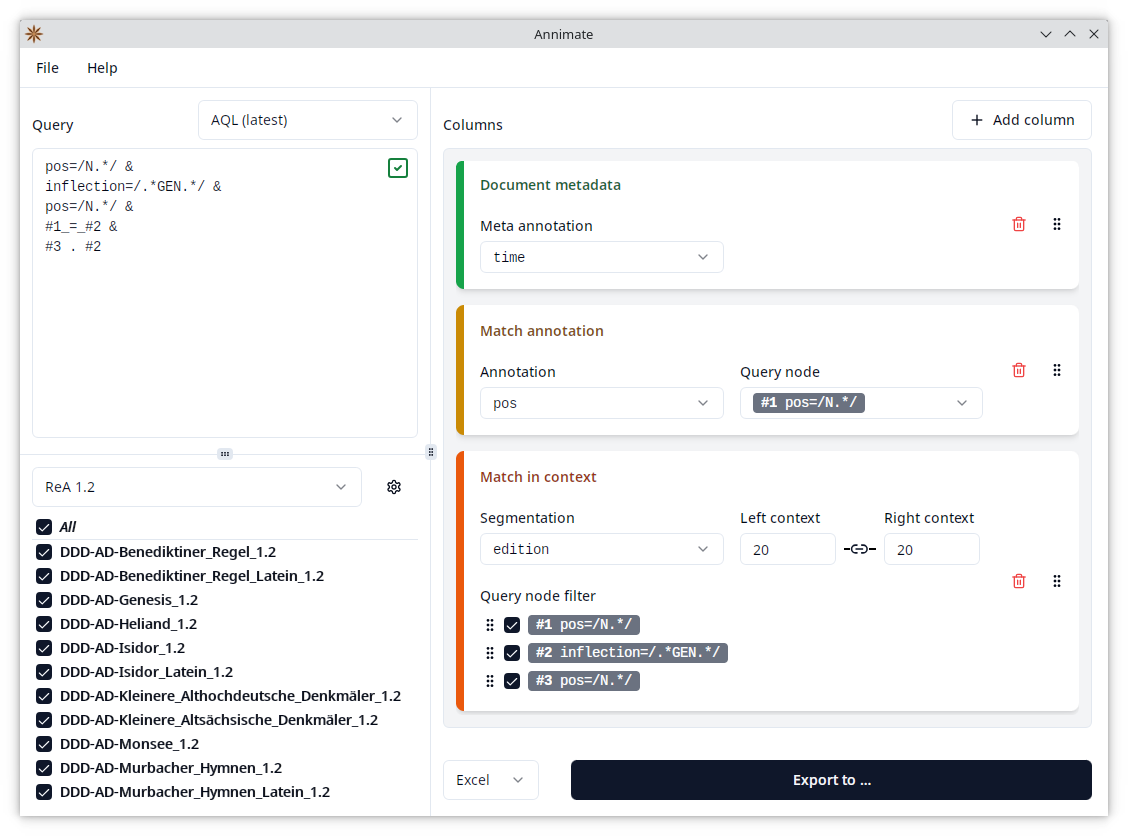
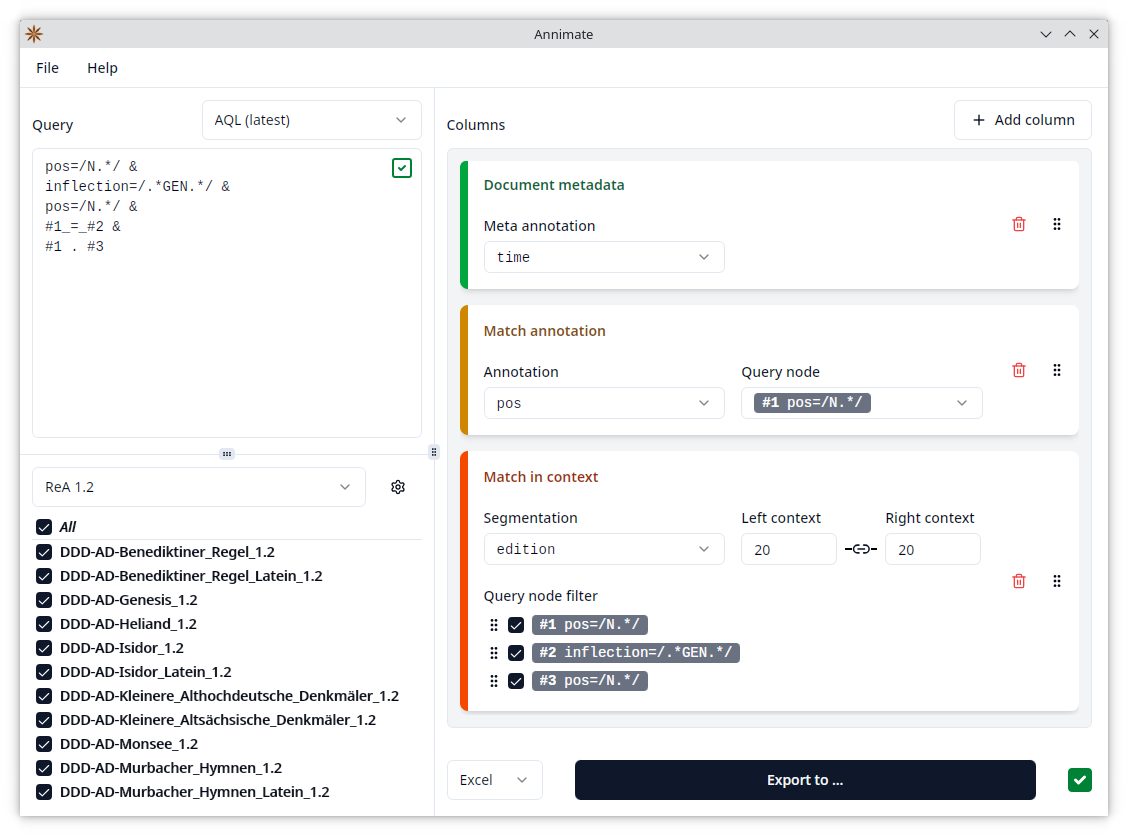
Update User Guide

diff --git a/docs/user-guide/src/export.md b/docs/user-guide/src/export.md
@@ -14,7 +14,7 @@ The next step is to enter a query in the _ANNIS Query Language (AQL)_ on the upp
 
 > **Note:** If there is an ANNIS installation available for your corpora, you may want to draft your query there, using ANNIS to visualize the results, and then copy-paste it into Annimate for the export. You can, of course, also type your query directly into Annimate.
 
-If the query is valid (in the context of the selected corpora), you see a green checkmark in the corner of the query area:
+If the query is valid, you see a green checkmark in the corner of the query area:
 ![Screenshot showing valid query](img/export-query-valid.png)
 
 If the query is invalid, you see a red "x" icon. Hover over the icon with your mouse to see the error message. You can also click on the icon to make Annimate select the part of the query that the error message refers to:
@@ -65,7 +65,11 @@ On the lower right of the Annimate main screen, you can choose between one of tw
 
 ![Screenshot showing export format selector](img/export-format.png)
 
-Finally, click on the "Export to ..." button and select a filename in order to start the export. If this button is disabled (grayed out), this means that the information needed to start the export is still incomplete. Make sure that the following conditions are satisfied:
+Finally, click on the "Export to ..." button and select a filename in order to start the export. In case the information needed to start the export is still incomplete, the button is disabled (grayed out) and you see a blue information icon next to it. Hover over the icon with your mouse to see what's missing:
+
+![Screenshot showing "Missing information" tooltip](img/export-missing-info.png)
+
+In general, make sure that the following conditions are satisfied:
 
 - At least one corpus is selected.
 - A query has been entered and is valid (showing a green checkmark).

diff --git a/docs/user-guide/src/troubleshooting.md b/docs/user-guide/src/troubleshooting.md
@@ -42,7 +42,7 @@ To fix this, you may want to group your corpora differently, so that all corpora
 
 If the [Match in context](columns/match-in-context.md) columns in your CSV or Excel file are empty, this may be because you selected the _Tokens (default)_ segmentation, but your corpus uses _virtual tokens_. This means that the segmentation nodes on the token layer do not have any textual content (hence the empty columns), but just serve the purpose of aligning other segmentation layers.
 
-To fix this, try to choose an option different from _Tokens (default)_ under "Segmentation". If there is no other option, check out the [previous point](#match-in-context-desired-segmentation-is-not-listed).
+To fix this, try choosing an option different from _Tokens (default)_ under "Segmentation". If there is no other option, check out the [previous point](#match-in-context-desired-segmentation-is-not-listed).
 
 ### Match in context: Context window is smaller than expected
 
@@ -60,7 +60,7 @@ To fix this, add both a "Corpus metadata" and a "Document metadata" column for t
 
 If the "Export to ..." button is disabled (grayed out), this means that the information needed to start the export is still incomplete.
 
-To fix this, make sure that the following conditions are satisfied:
+To fix this, hover over the blue information icon next to the button with your mouse to see what's missing, and make sure that the following conditions are satisfied:
 
 - At least one corpus is selected.
 - A query has been entered and is valid (showing a green checkmark).

diff --git a/docs/user-guide/src/columns/match-annotation.md b/docs/user-guide/src/columns/match-annotation.md
@@ -9,7 +9,7 @@ pos=/N.*/ &
 inflection=/.*GEN.*/ &
 pos=/N.*/ &
 #1_=_#2 &
-#3 . #2
+#1 . #3
 ```
 
 the query node `#1` is required to have a `pos` annotation with a value starting with `N`, but the exact value may vary. A "Match annotation" column helps you export this exact value. Under "Annotation", you can select which annotation to export (`pos` in the example), and under "Query node", you can select the query node for which you want to export the annotation (`#1 pos=/N.*/` in the example).
@@ -29,7 +29,7 @@ pos=/N.*/ &
 inflection=/.*GEN.*/ &
 pos=/N.*/ &
 #1_=_#2 &
-#3 . #2
+#1 . #3
 ```
 
 In a match for this query, the nodes matched by `#1` and `#2` are never the same, because ReA uses distinct nodes for the `pos` and `inflection` annotations. The condition `#1_=_#2` just requires the two nodes to cover the same tokens, as opposed to `#1 _ident_ #2`, which would require them to be exactly the same node (and hence would yield no matches). However, if you configure a "Match annotation" column to export the `inflection` annotation of `#1 pos=/N.*/`, you still get a value. This is because in case the selected node doesn't have the selected annotation, Annimate looks for the first node that satisfies these two conditions:

diff --git a/docs/user-guide/src/introduction.md b/docs/user-guide/src/introduction.md
@@ -8,7 +8,7 @@ It is meant as a supplement to the ANNIS web interface and focuses on file expor
 >
 > It is based on the [graphANNIS](https://github.com/korpling/graphANNIS) library by Thomas Krause.
 
-Annimate can currently produce a CSV or an Excel file with one row per match, showing the matched nodes in their context in a KWIC (Keyword in Context) format as well as additional annotations of the matched nodes and metadata on the corpus and document levels. It is similar in functionality to a combination of the ANNIS `TextColumnExporter` and `CSVExporter`, but provides a friendlier user interface.
+Annimate can produce a CSV or an Excel file with one row per match, showing the matched nodes in their context in a KWIC (Key Word in Context) format as well as additional annotations of the matched nodes and metadata on the corpus and document levels. It is similar in functionality to a combination of the ANNIS `TextColumnExporter` and `CSVExporter`, but provides a friendlier user interface.
 
 This User Guide explains the details on how to work with Annimate.
 

diff --git a/README.md b/README.md
@@ -9,7 +9,7 @@ It is meant as a supplement to the ANNIS web interface and focuses on file expor
 >
 > It is based on the [graphANNIS](https://github.com/korpling/graphANNIS) library by Thomas Krause.
 
-Annimate can currently produce a CSV or an Excel file with one row per match, showing the matched nodes in their context in a KWIC (Key Word in Context) format as well as additional annotations of the matched nodes and metadata on the corpus and document levels. It is similar in functionality to a combination of the ANNIS `TextColumnExporter` and `CSVExporter`, but provides a friendlier user interface.
+Annimate can produce a CSV or an Excel file with one row per match, showing the matched nodes in their context in a KWIC (Key Word in Context) format as well as additional annotations of the matched nodes and metadata on the corpus and document levels. It is similar in functionality to a combination of the ANNIS `TextColumnExporter` and `CSVExporter`, but provides a friendlier user interface.
 
 ![Screenshot of Annimate](docs/readme/images/screenshot.png)
 

diff --git a/docs/user-guide/src/import.md b/docs/user-guide/src/import.md
@@ -20,7 +20,7 @@ While one would commonly call the full ReA 1.2 a corpus, it's each individual pa
 
 ### Obtaining Corpus Data
 
-Corpora are distributed in many different data formats, two of which a related to ANNIS and are supported by Annimate:
+Corpora are distributed in many different data formats, two of which are related to ANNIS and are supported by Annimate:
 
 - **graphANNIS/GraphML**: This is the graph-based format used internally by ANNIS. In this format, each corpus comes as a single `.graphml` file.
 - **relANNIS**: This is the relational format that was previously used by ANNIS but is still used to distribute many corpora. In this format, each corpus comes as a folder containing multiple files with fixed names such as `corpus.tab` or `node.tab`.

diff --git a/docs/user-guide/src/columns/match-in-context.md b/docs/user-guide/src/columns/match-in-context.md
@@ -9,7 +9,7 @@ pos=/N.*/ &
 inflection=/.*GEN.*/ &
 pos=/N.*/ &
 #1_=_#2 &
-#3 . #2
+#1 . #3
 ```
 
 consists of three nodes referenced by the variables `#1`, `#2` and `#3`, so each match also consists of three nodes. As queries can be "or" queries with multiple alternatives, the number of nodes may vary from one match to another. The exact number of columns in the export depends on the maximal number of nodes contained in any match. In the simplest case, if the query contains only a single node (referred to as `#1`), every match also contains a single node and the export will contain three columns:
@@ -44,7 +44,7 @@ inflection=/.*GEN.*/ &
 pos=/N.*/ &
 clause=/.*_Int/ &
 #1_=_#2 &
-#3 . #2 &
+#1 . #3 &
 #4_i_#1 &
 #4_i_#3
 ```
